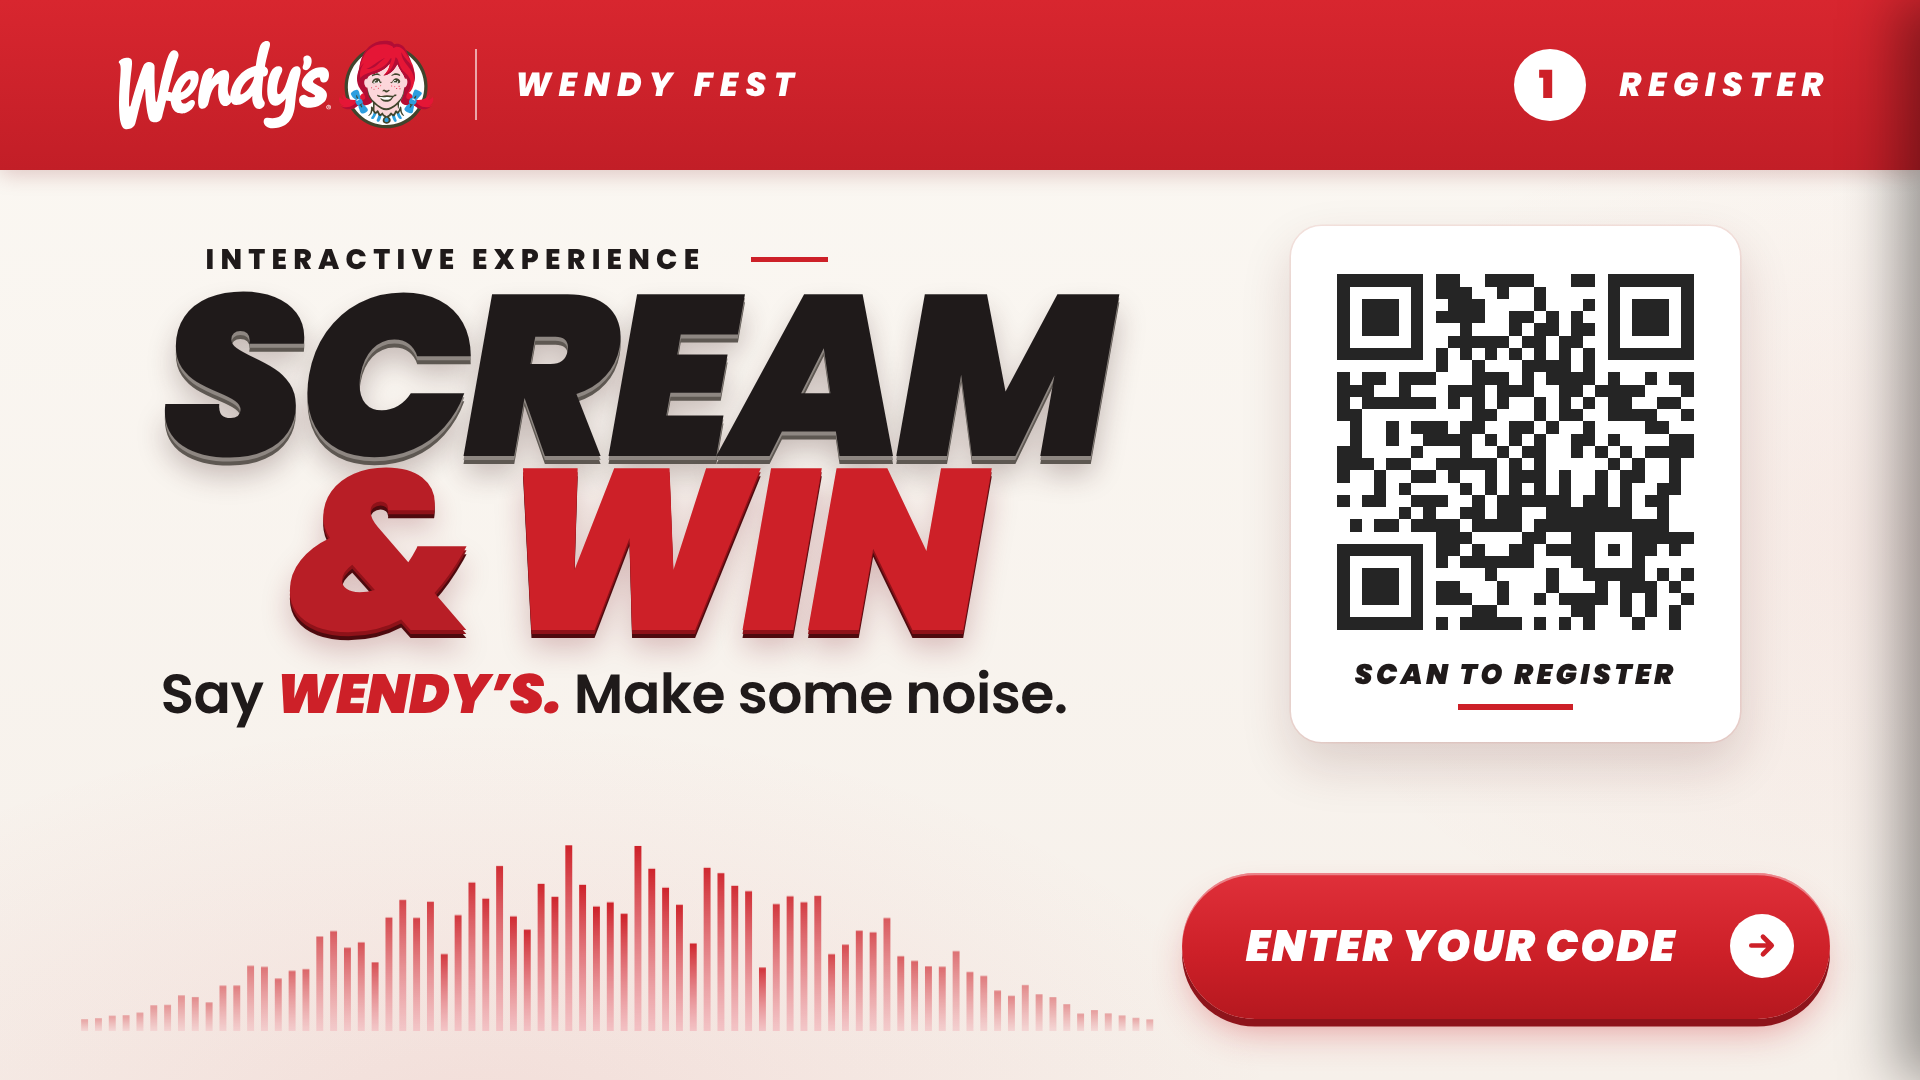
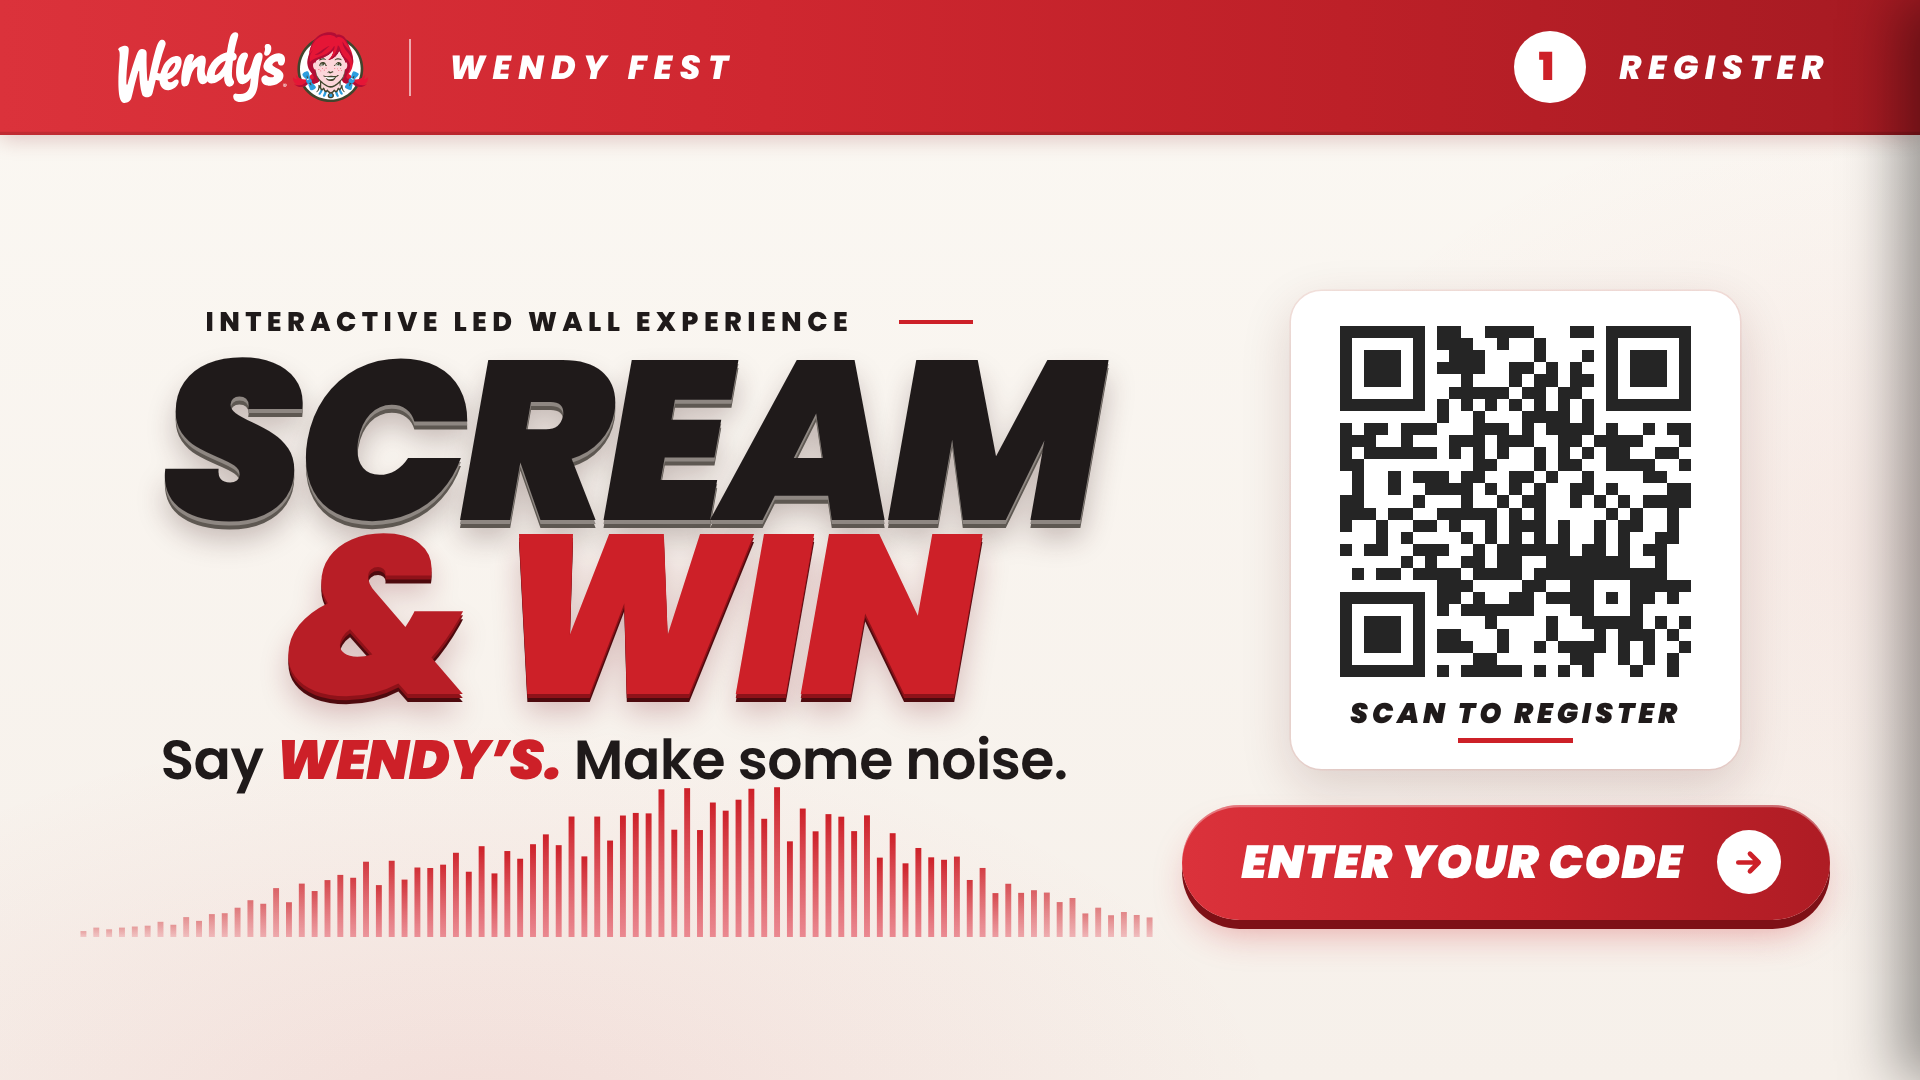
Studio Cream: uniform-scale Register layout, header gradient, closed CTA, reference wave
Claude-Session: https://claude.ai/code/session_015MHPvZ3kkn8jw5YatKY7r4

diff --git a/public/kiosk/scream-cream.html b/public/kiosk/scream-cream.html
@@ -6,14 +6,14 @@
 <link rel="stylesheet" href="/css/brand.css">
 <style>
 /* ================= STUDIO CREAM · Scream & Win ================= */
-:root { --u:calc(100vw / 1495); --v:calc(100vh / 668); --red:#CD2028; --red2:#DA2A33; --red-dark:#8E141B; --ink:#1F1A1A; --cream:#F7F2EC; --blush:#F2D4D7; --cyan:#29C9E0; --line:rgba(205,32,40,.18); }
+:root { --u:calc(100vw / 1495); --v:var(--u); --red:#CD2028; --red2:#DA2A33; --red-dark:#8E141B; --ink:#1F1A1A; --cream:#F7F2EC; --blush:#F2D4D7; --cyan:#29C9E0; --line:rgba(205,32,40,.18); }
 html, body { height:100%; overflow:hidden; }
 body { margin:0; background:var(--cream); color:var(--ink); font-family:Poppins,'Noto Sans Sinhala','Noto Sans Tamil',system-ui,sans-serif; user-select:none; cursor:default; }
 .stage { position:relative; width:100vw; height:100vh; overflow:hidden; background:var(--cream); }
 .stage::before { content:""; position:absolute; inset:0; background:radial-gradient(60% 55% at 25% 105%, rgba(205,32,40,.09), transparent 70%), radial-gradient(50% 60% at 100% 50%, rgba(205,32,40,.05), transparent 70%), linear-gradient(180deg, #FBF8F3, #F6F0EA); pointer-events:none; }
 #field { display:none; }
 /* header bar */
-.hdr { position:absolute; top:0; left:0; right:0; height:calc(105 * var(--v)); background:linear-gradient(180deg,#D8262F,#C21E27); display:flex; align-items:center; justify-content:space-between; padding:0 calc(70 * var(--u)) 0 calc(90 * var(--u)); z-index:5; box-shadow:0 .4vmin 2vmin rgba(120,0,10,.22); }
+.hdr { position:absolute; top:0; left:0; right:0; height:calc(105 * var(--v)); background:linear-gradient(90deg, #DB323B 0%, #CF2730 40%, #BD2028 70%, #A51A22 100%); display:flex; align-items:center; justify-content:space-between; padding:0 calc(70 * var(--u)) 0 calc(90 * var(--u)); z-index:5; box-shadow:0 .4vmin 2vmin rgba(120,0,10,.22), inset 0 -.3vmin 0 rgba(0,0,0,.12); }
 .brand { display:flex; align-items:center; gap:calc(30 * var(--u)); } .brand img { height:calc(58 * var(--v)); width:auto; } .brand i { width:.2vmin; height:calc(44 * var(--v)); background:rgba(255,255,255,.6); }
 .brand b { font:italic 800 calc(26 * var(--u))/1 Poppins, sans-serif; letter-spacing:.22em; text-transform:uppercase; color:#fff; }
 .step { display:flex; align-items:center; gap:calc(26 * var(--u)); font:italic 800 calc(26 * var(--u))/1 Poppins, sans-serif; letter-spacing:.2em; text-transform:uppercase; color:#fff; }
@@ -51,21 +51,21 @@ body { margin:0; background:var(--cream); color:var(--ink); font-family:Poppins,
 .help::before, .help::after { content:""; width:5vmin; height:.25vmin; background:var(--red); }
 .help i { display:none; }
 .vr { width:.25vmin; height:5vmin; background:var(--line); }
-/* idle · laid out on the reference banner grid */
-.idle.on { display:block; padding:0; top:0; }
-.idle .left { position:absolute; left:calc(125 * var(--u)); top:calc(148 * var(--v)); display:grid; gap:0; justify-items:start; }
-.idle .eyebrow { justify-content:flex-start; font-size:calc(22 * var(--u)); letter-spacing:.22em; margin-left:calc(35 * var(--u)); } .idle .eyebrow::before { display:none; } .idle .eyebrow::after { width:calc(60 * var(--u)); height:calc(3 * var(--v)); margin-left:calc(22 * var(--u)); }
-.idle .h1 { font-size:calc(178 * var(--u)); line-height:.76; letter-spacing:-.035em; margin-top:calc(6 * var(--v)); }
+/* idle · laid out on the reference banner grid (1495 x 668), uniform scale */
+.idle.on { display:block; padding:0; top:calc(105 * var(--u) + (100vh - 668 * var(--u)) / 2); height:calc(563 * var(--u)); bottom:auto; }
+.idle .left { position:absolute; left:calc(125 * var(--u)); top:calc(44 * var(--u)); display:grid; gap:0; justify-items:start; }
+.idle .eyebrow { justify-content:flex-start; font-size:calc(21 * var(--u)); letter-spacing:.2em; margin-left:calc(35 * var(--u)); color:#1F1A1A; } .idle .eyebrow::before { display:none; } .idle .eyebrow::after { width:calc(58 * var(--u)); height:calc(3 * var(--u)); margin-left:calc(22 * var(--u)); }
+.idle .h1 { font-size:calc(176 * var(--u)); line-height:.77; letter-spacing:-.035em; margin-top:calc(10 * var(--u)); }
 .idle .h1 .l1, .idle .h1 .l2 { display:block; } .idle .h1 .amp { color:#B81E26; margin-right:.12em; }
 .idle .h1 .l1 { color:#1F1A1A; text-shadow:0 calc(3 * var(--u)) 0 #8E8782, 0 calc(6 * var(--u)) 0 #5E5852, 0 calc(14 * var(--u)) calc(22 * var(--u)) rgba(60,30,30,.28); }
 .idle .h1 .amp, .idle .h1 .red { text-shadow:0 calc(3 * var(--u)) 0 #8E1219, 0 calc(6 * var(--u)) 0 #4E0A0E, 0 calc(14 * var(--u)) calc(22 * var(--u)) rgba(120,20,30,.25); }
-.idle .sub { font-size:calc(43 * var(--u)); font-weight:600; margin-top:calc(10 * var(--v)); letter-spacing:-.01em; }
-.idle canvas.wave { position:absolute; left:calc(60 * var(--u)); top:calc(520 * var(--v)); width:calc(840 * var(--u)); height:calc(118 * var(--v)); }
-.idle .qrcard { position:absolute; left:calc(1005 * var(--u)); top:calc(140 * var(--v)); width:calc(350 * var(--u)); padding:calc(22 * var(--v)) calc(20 * var(--u)) calc(20 * var(--v)); border-radius:calc(24 * var(--u)); gap:calc(10 * var(--v)); box-shadow:0 calc(14 * var(--v)) calc(40 * var(--u)) rgba(80,20,20,.16), 0 0 0 .15vmin rgba(205,32,40,.08); }
-.idle .qrcard img { width:calc(296 * var(--u)); height:calc(296 * var(--u)); } .idle .qrcard b { font-size:calc(22 * var(--u)); letter-spacing:.12em; white-space:nowrap; } .idle .qrcard b::after { width:calc(90 * var(--u)); height:calc(4 * var(--v)); margin-top:calc(8 * var(--v)); }
+.idle .sub { font-size:calc(43 * var(--u)); font-weight:600; margin-top:calc(14 * var(--u)); letter-spacing:-.01em; }
+.idle canvas.wave { position:absolute; left:calc(60 * var(--u)); top:calc(420 * var(--u)); width:calc(840 * var(--u)); height:calc(118 * var(--u)); }
+.idle .qrcard { position:absolute; left:calc(1005 * var(--u)); top:calc(35 * var(--u)); width:calc(350 * var(--u)); height:calc(372 * var(--u)); padding:calc(18 * var(--u)) calc(20 * var(--u)) calc(16 * var(--u)); border-radius:calc(24 * var(--u)); gap:calc(6 * var(--u)); align-content:start; box-shadow:0 calc(14 * var(--u)) calc(40 * var(--u)) rgba(80,20,20,.16), 0 0 0 .15vmin rgba(205,32,40,.08); }
+.idle .qrcard img { width:calc(292 * var(--u)); height:calc(292 * var(--u)); } .idle .qrcard b { font-size:calc(22 * var(--u)); letter-spacing:.14em; white-space:nowrap; } .idle .qrcard b::after { width:calc(90 * var(--u)); height:calc(4 * var(--u)); margin-top:calc(7 * var(--u)); }
 .stage:has(#s-idle.on) .foot, .stage:has(#s-idle.on) .gear { display:none; }
-.idle .cta-wrap { position:absolute; left:calc(920 * var(--u)); top:calc(540 * var(--v)); }
-.idle .btn { width:calc(505 * var(--u)); height:calc(90 * var(--v)); font-size:calc(34 * var(--u)); white-space:nowrap; padding:0 calc(28 * var(--u)) 0 calc(50 * var(--u)); gap:calc(30 * var(--u)); justify-content:space-between; }
+.idle .cta-wrap { position:absolute; left:calc(920 * var(--u)); top:calc(435 * var(--u)); }
+.idle .btn { width:calc(505 * var(--u)); height:calc(90 * var(--u)); font-size:calc(36 * var(--u)); white-space:nowrap; padding:0 calc(20 * var(--u)) 0 calc(28 * var(--u)); gap:calc(26 * var(--u)); justify-content:center; letter-spacing:.02em; background:linear-gradient(90deg, #DB323B 0%, #CA242D 55%, #AE1C24 100%); box-shadow:0 calc(7 * var(--u)) 0 #7E1016, 0 calc(16 * var(--u)) calc(30 * var(--u)) -1vmin rgba(205,32,40,.4), inset 0 .2vmin 0 rgba(255,255,255,.35); }
 .idle .btn::after { width:calc(50 * var(--u)); height:calc(50 * var(--u)); }
 /* code */
 .codegrid { display:grid; grid-template-columns:1fr auto; gap:4vw; align-items:center; width:100%; text-align:left; }
@@ -163,7 +163,7 @@ canvas.wave { width:70vw; height:12vmin; display:block; }
   <!-- IDLE -->
   <section class="screen on idle" id="s-idle">
     <div class="left">
-      <div class="eyebrow rise">Interactive experience</div>
+      <div class="eyebrow rise">Interactive LED wall experience</div>
       <h1 class="display h1 rise-2"><span class="l1">Scream</span><span class="l2"><span class="amp">&amp;</span><span class="red">Win</span></span></h1>
       <div class="sub rise-3">Say <b>WENDY’S.</b> Make some noise.</div>
     </div>
@@ -346,14 +346,17 @@ canvas.wave { width:70vw; height:12vmin; display:block; }
   function drawHill(c) {
     if (!c._sized) sizeCanvas(c);
     const ctx = c.getContext("2d"), W = c.width, H = c.height; ctx.clearRect(0, 0, W, H);
-    const n = 78, gap = W / n, t = performance.now();
+    const n = 84, gap = W / n, t = performance.now();
     if (analyser && fbuf) analyser.getByteFrequencyData(fbuf);
     for (let i = 0; i < n; i++) {
-      const u = (i + .5) / n, env = Math.pow(Math.sin(u * Math.PI), 1.6);
-      let v = analyser && fbuf ? Math.max(.12, fbuf[Math.floor(i / n * fbuf.length * .35)] / 255) : .3 + Math.abs(Math.sin(i * .55 + t * .003)) * .4 + Math.abs(Math.sin(i * 1.9 - t * .002)) * .3;
-      const h = Math.max(3 * fd, (.06 + .94 * env * Math.min(1, v)) * H), x = i * gap + gap * .3;
-      const g = ctx.createLinearGradient(0, H - h, 0, H); g.addColorStop(0, `rgba(205,32,40,${(.35 + .65 * env).toFixed(2)})`); g.addColorStop(1, `rgba(242,180,186,${(.3 + .4 * env).toFixed(2)})`);
-      ctx.fillStyle = g; ctx.fillRect(x, H - h, gap * .5, h);
+      const u = (i + .5) / n;
+      const env = Math.exp(-Math.pow((u - .6) / .26, 2)) * .95 + Math.exp(-Math.pow((u - .25) / .12, 2)) * .25 + .05;
+      const live = analyser && fbuf ? fbuf[Math.floor(i / n * fbuf.length * .35)] / 255 : 0;
+      const jag = .62 + .38 * Math.abs(Math.sin(i * 1.37 + t * .0025)) * (.6 + .4 * Math.abs(Math.sin(i * .41 - t * .0017)));
+      const h = Math.max(4 * fd, Math.min(1, env * jag * 1.05 + live * .6) * H), x = i * gap + gap * .27;
+      const a = Math.min(1, .3 + env * 1.2);
+      const g = ctx.createLinearGradient(0, H - h, 0, H); g.addColorStop(0, `rgba(205,32,40,${a.toFixed(2)})`); g.addColorStop(1, `rgba(232,120,130,${(a * .85).toFixed(2)})`);
+      ctx.fillStyle = g; ctx.fillRect(x, H - h, gap * .46, h);
     }
   }
 
